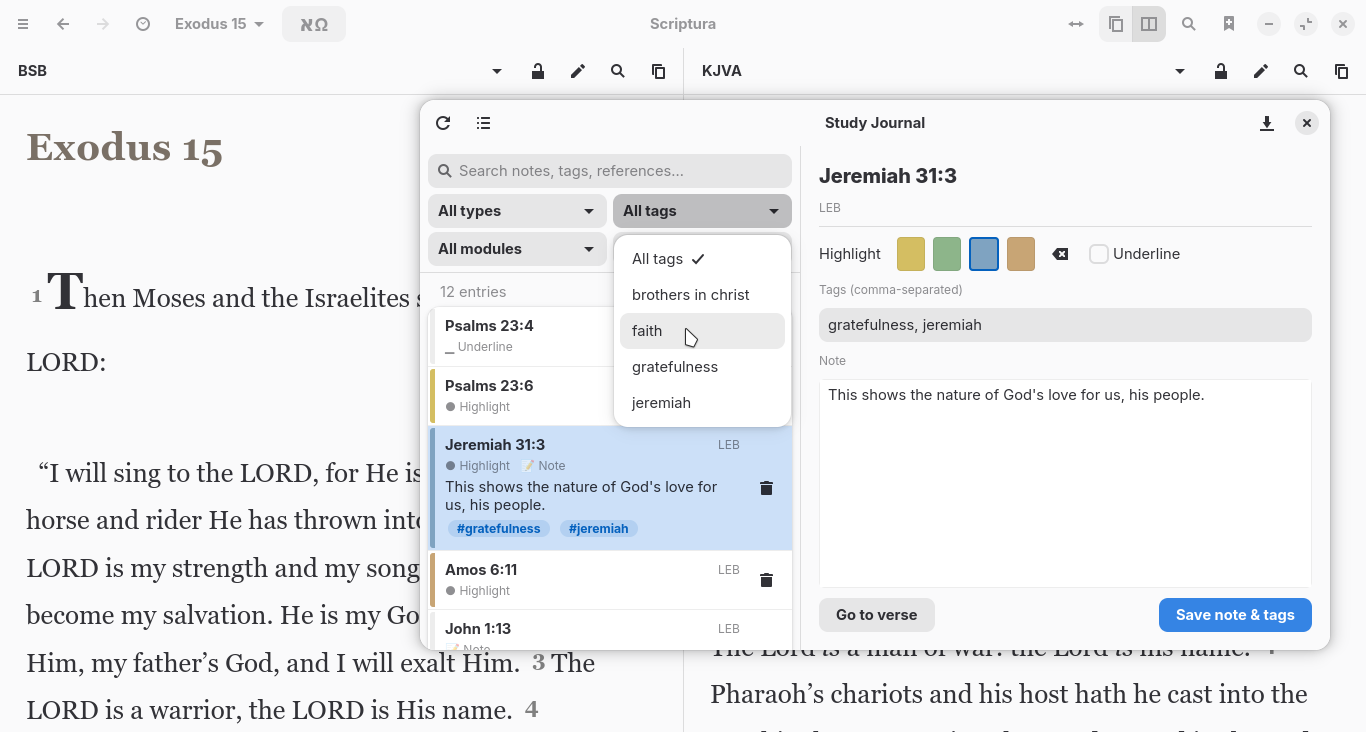
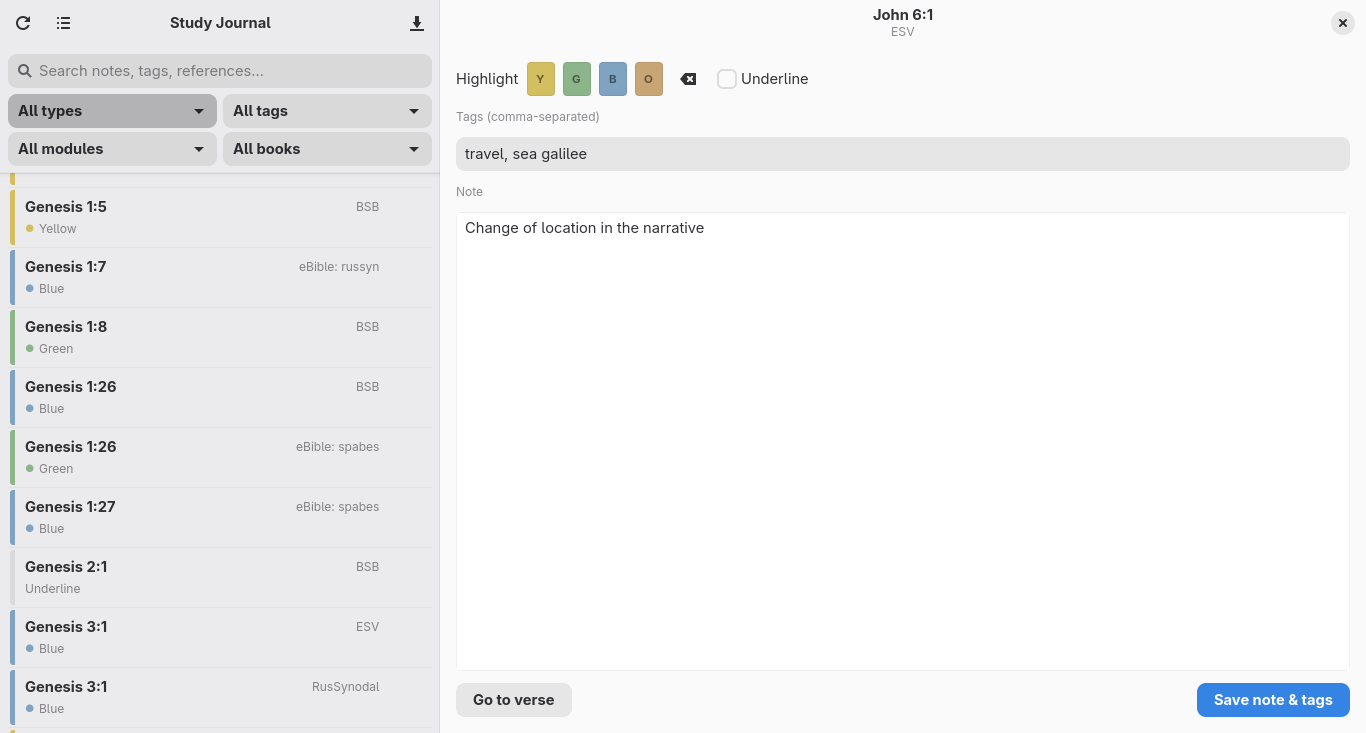
README: add screenshots and license badge; refresh shots; fix test count
Lead with a hero screenshot (two-pane reading + Strong's lexicon) and add
a Study Journal / dark reading-mode gallery, so a visual app reads like one.
Add a GPL v3 badge beside the install badge. Refresh the three screenshots
to the current UI (warm reading surface, redesigned reading view). Correct
the test count 227 -> 310.

diff --git a/README.md b/README.md
@@ -11,6 +11,8 @@ Built on GNOME with GTK4 + libadwaita, in Python, GPL-3.0.
 > _"For the word of God is living and active, sharper than any
 > two-edged sword..."_ — Hebrews 4:12
 
+![Scriptura — two-pane reading with the Strong's lexicon panel open](data/screenshots/01-two-pane-lexicon.png)
+
 ---
 
 ## What it does
@@ -60,11 +62,17 @@ network is when you explicitly download a module, fetch a translation
 from eBible.org, or install an open-data file. Your study is your
 own.
 
+| | |
+|:---:|:---:|
+| ![Study Journal — every annotation across every module in one filterable view](data/screenshots/03-study-journal.png) | ![Distraction-free reading mode in dark theme](data/screenshots/05-reading-mode-dark.png) |
+| _Study Journal_ | _Reading mode (dark)_ |
+
 ---
 
 ## Install
 
 [![Install — Flatpak](https://img.shields.io/badge/Install-Flatpak-4A86CF?logo=flatpak&logoColor=white)](https://andresmessina.codeberg.page/scriptura.flatpakref)
+[![License: GPL v3](https://img.shields.io/badge/License-GPLv3-blue.svg)](LICENSE)
 
 The easiest way to run Scriptura — one click, with automatic updates:
 
@@ -194,7 +202,7 @@ sudo pacman -S xdg-desktop-portal-gtk
 
 The pure-Python layers (`sword_bridge`, `open_data`, `annotations`,
 `reading_plans`, `paths`, `bookmarks`, `settings`, `ebible_bridge`,
-etc.) have a pytest suite — 227 tests, under two seconds.
+etc.) have a pytest suite — 310 tests, under two seconds.
 
 ```sh
 # Fedora